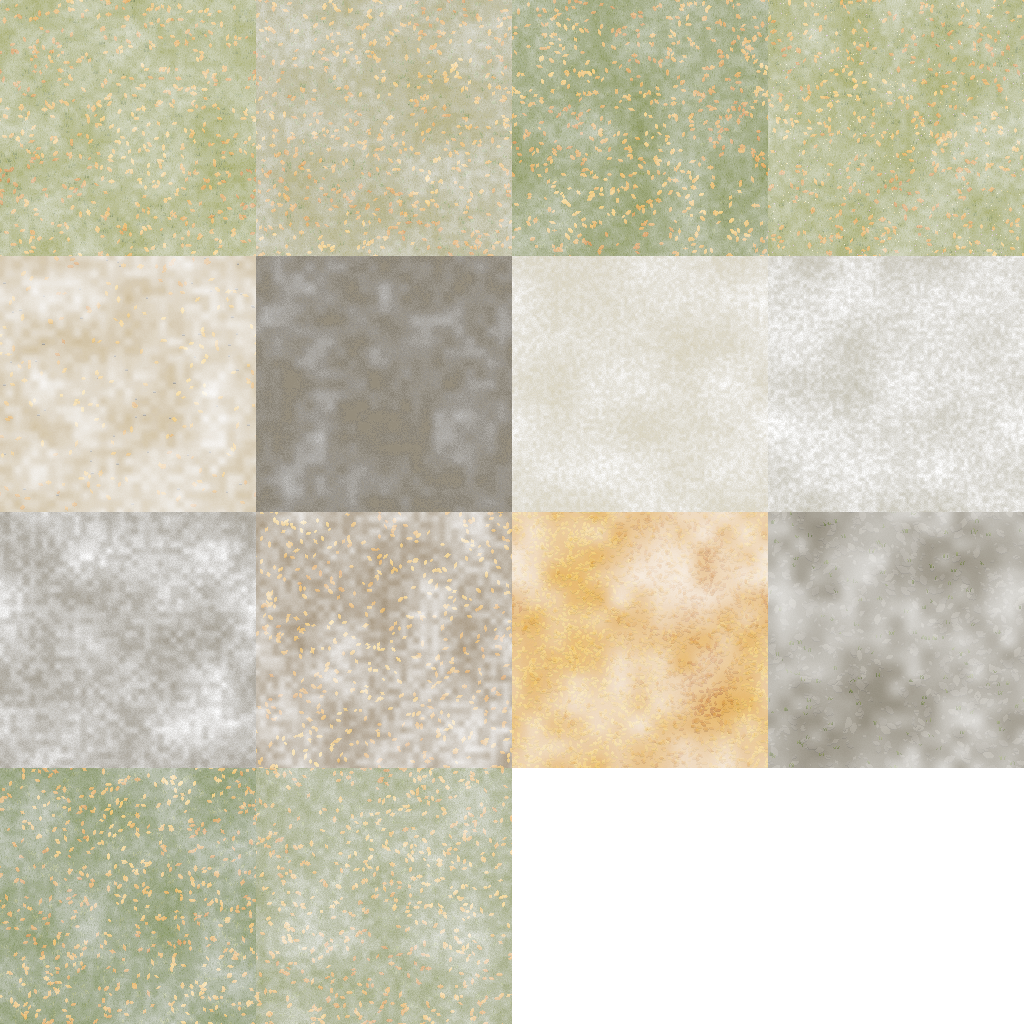
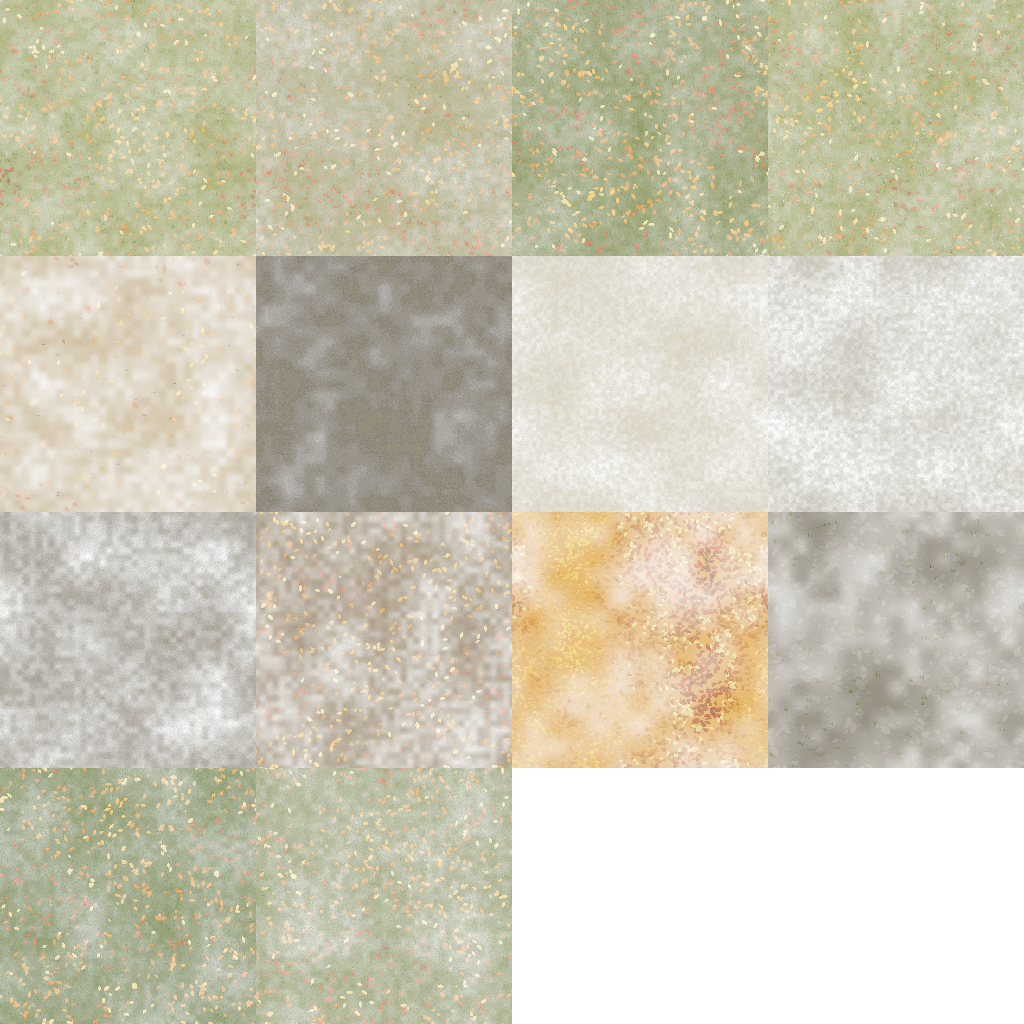
After leaf-fall the trees keep their colours (D-052); a richer floor; blue water
Dominic: the trees a bit naked, the ground and the water not rich enough yet. Each tree keeps its own yellow,
orange or red and about half its leaves over the twigs. More shades in the fallen leaves, dead branches and
mossy stones on the floor. The water a clear mid blue (its ripples wait for Casaide/creel#21). His words kept.
Picture 40. #6 #16

diff --git a/tools/ground_atlas.py b/tools/ground_atlas.py
@@ -152,7 +152,10 @@ def tiles(wood, season):
         if autumn:
             # (soft: close warm tones on a warm bed, no dark gaps between the leaves; Dominic: "verry spotty, ground was
             # soft and pretty in the mockup")
-            fall = ["#ecb848", "#e6ae40", "#e2a538", "#dc9a30", "#d68f2c", "#cf8528", "#c87a26"]
+            # (2026-11-11, Dominic: the ground is "not rich enough yet". The fall has more shades in it, as the trees do:
+            # straw and gold, orange, and one leaf in four rust, red-brown or brown. Still no dark gaps.)
+            fall = ["#f0c658", "#ecb848", "#e6ae40", "#e2a538", "#dc9a30", "#d68f2c", "#cf8528", "#c87a26", "#e9d27c",
+                    "#bd6a26", "#b25a24", "#c65228", "#a8602c", "#9a5226"]
             t[10] = strew(make(11, ["#c8802a", "#cf892c", "#d6922e", "#dc9a30"], coarse=4, fine=12, grain=0.04, height=0.45), 111, 3600, fall, lift=0.04)
             for k, n in ((0, 520), (1, 560), (2, 640), (3, 480), (12, 560), (13, 560)):
                 t[k] = strew(tufts(t[k], 200 + k, 500, ["#7f8f40", "#8a9846", "#75853c"]), 300 + k, n, fall)

diff --git a/archive/journal/2026-11-11-soft-banks-soft-grass-and-the-camera.md b/archive/journal/2026-11-11-soft-banks-soft-grass-and-the-camera.md
@@ -231,3 +231,19 @@ the fire, and the lit leaves are a stronger orange than the mock-up's (the light
 
 - **With the lighting thread's cool shade and softer sun merged** (main at 07:19 UTC) the same scene is picture 38:
   the shade is grey-blue, the lit leaves a quieter orange, and the two threads' work is seen together for the first time.
+
+## Richer: the trees' colours back, the floor, the water (07:40 to 08:00 UTC)
+
+Dominic, looking at picture 38: the trees "a bit naked", the Rhodope autumn "rich with shades", the ground "not rich
+enough yet. And the water". His words are in the notes; D-052.
+
+- **Trees** after leaf-fall keep their own yellow, orange or red and about half their leaves (`LATE_KEEP`), over the
+  fine twigs. The rust-only palette of this morning is gone for beech; one oak or hornbeam in three is still rust.
+- **The floor.** The fallen leaves have more shades: straw, gold and orange, and one leaf in four rust, red-brown or
+  brown (`tools/ground_atlas.py`). Dead branches lie about, more of them near trees, and a mossy stone now and then
+  (`fallen_branch`, `moss_stone`).
+- **The water** is a clear mid blue. White ripples all along it are a new Creel setting, `ground_water_ripples`
+  (Casaide/creel#21); the game turns them on when that is merged.
+
+Picture 40 (with the ripples, from the Creel branch). To judge (Claude): whether the floor has gone spotty again,
+which Dominic disliked on 2026-11-10.

diff --git a/archive/decisions.md b/archive/decisions.md
@@ -261,3 +261,10 @@ lowering camera angle", after seeing 30 and 22 side by side with the mock-up, an
 setting not engine enforced". Creel keeps 30 degrees as its own and gains the settings; Smyana asks for 22 in
 `data/route.json` (`camera_elev`). Everything baked is baked again for the angle. It is a try: `elev:30` on the command
 line shows the old view.
+
+**D-052, 2026-11-11: After leaf-fall the trees keep their colours and about half their leaves.** (Dominic) "Trees are a
+bit naked there ... the rhodope autumn trees are rich with shades. Some tree yellowz some red, some orange. Like our
+pallette that was designed for the trees". The "late" stage had been thinned to a few clinging leaves, all rust and
+brown, after a review against the mock-up (Claude, earlier the same day). Now each tree keeps its own yellow, orange or
+red and about half its crown, over the fine twigs. How bare the trees go on the way to winter is still open ("Depends
+how we end up showing the change to winter").

diff --git a/archive/notes/2026-11-11-dominic-in-his-own-words.md b/archive/notes/2026-11-11-dominic-in-his-own-words.md
@@ -24,3 +24,21 @@ His messages about the game, word for word, in the order he sent them (times in 
 ## 07:04, on documenting Creel (chat)
 
 > Need to ensure creel settings and features documented as we go. We'll do full api docs, CLI etc later
+
+## 07:37, on pull request 42 (chat)
+
+> 42 needs rebase
+
+## 07:37, on the comparison picture (chat)
+
+> That comparison pic uses old camer a angle
+
+(Claude checked: the picture was at 22 degrees. Rendered again with 22 and with 30 forced, the default matched 22.)
+
+## 07:38, on the ground and the water (chat)
+
+> Is the ground still being worked on? Maybe last part thats not rich enough yet. And the water
+
+## 07:39, on the trees after leaf-fall (chat)
+
+> Trees are a bit naked there. Depends how we end up.showing the change to winter. But the rhodope autumn trees are rich with shades. Some tree yellowz some red, some orange. Like our pallette that was designed for the trees

diff --git a/archive/timeline.md b/archive/timeline.md
@@ -103,3 +103,5 @@ One line per moment worth remembering. Newest at the bottom.
   ([journal](journal/2026-11-11-soft-banks-soft-grass-and-the-camera.md#twigs-for-crowns-low-grass-and-the-scene-laid-out-as-the-picture-done-by-0720-utc))
 - **2026-11-11:** Olive turf shows through thin leaves where the grass drifts; a seat log, a block and a stepping stone at the camp (picture 34).
   ([journal](journal/2026-11-11-soft-banks-soft-grass-and-the-camera.md#turf-through-the-leaves-and-things-lying-about-the-camp-done-by-0740-utc))
+- **2026-11-11:** After leaf-fall the trees keep their yellows, oranges and reds (D-052); more shades in the fallen leaves, dead branches and mossy stones; blue water (picture 40).
+  ([journal](journal/2026-11-11-soft-banks-soft-grass-and-the-camera.md#richer-the-trees-colours-back-the-floor-the-water-0740-to-0800-utc))
